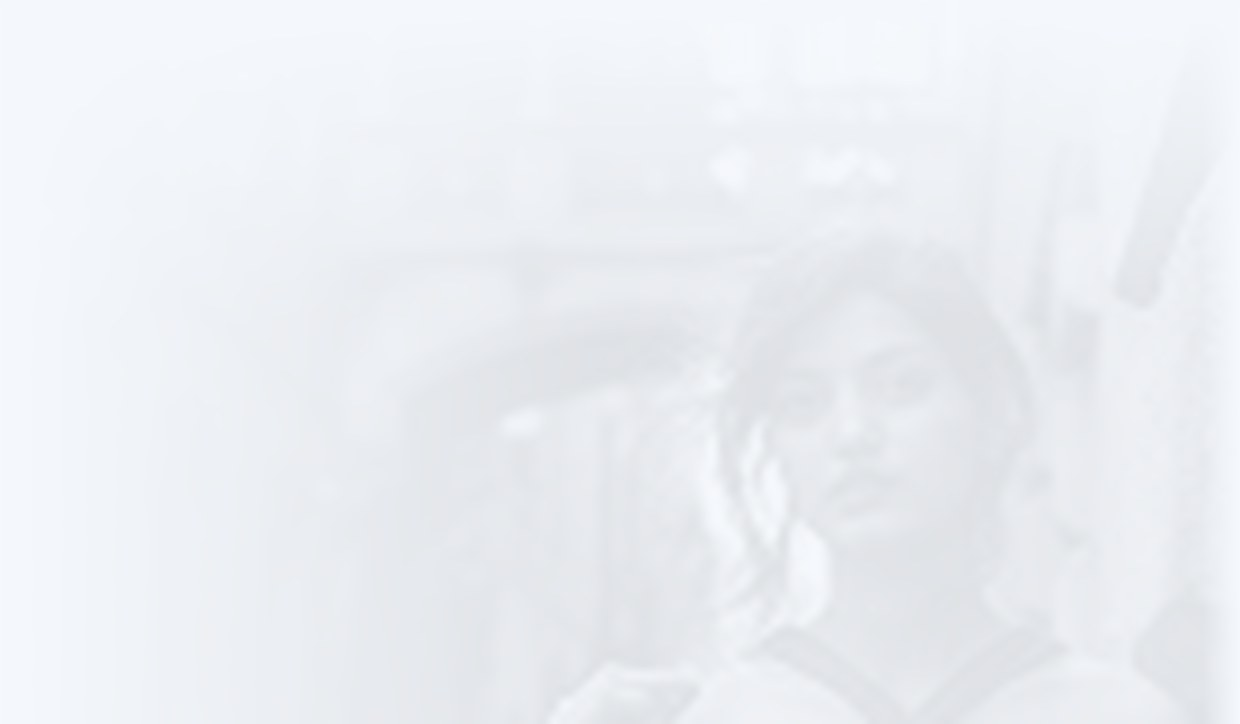
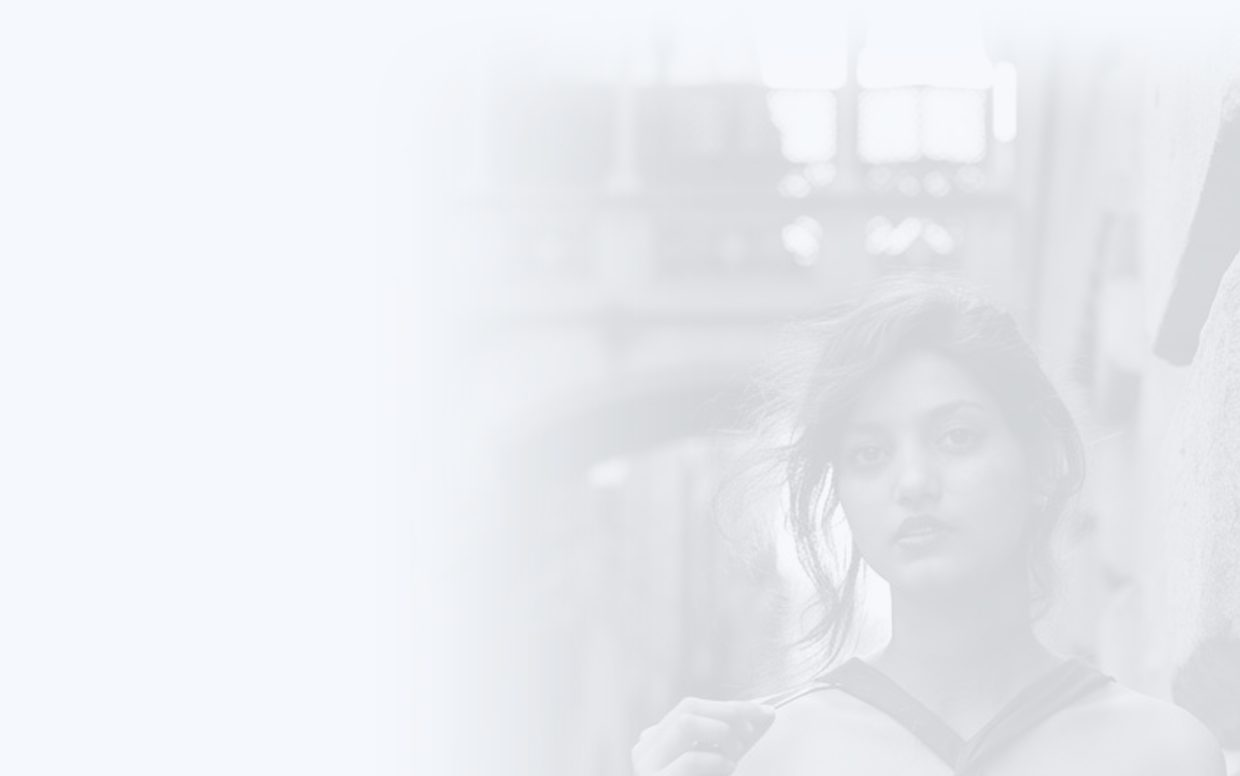
Replace hero backdrop with the archway portrait from the design
The previous backdrop was a different photo. Rebuilt the asset from the
832x1248 source in the Figma export: grayscale, 15% wash over the page
background, left and top fade baked in, framed so the face sits about
two-thirds across and 60% down as in the design. Canvas is now 1240x776
to match the frame's aspect ratio; markup height updated accordingly.

diff --git a/index.html b/index.html
@@ -110,7 +110,7 @@
           alt=""
           aria-hidden="true"
           width="1240"
-          height="724"
+          height="776"
           loading="eager"
           fetchpriority="high"
         />
